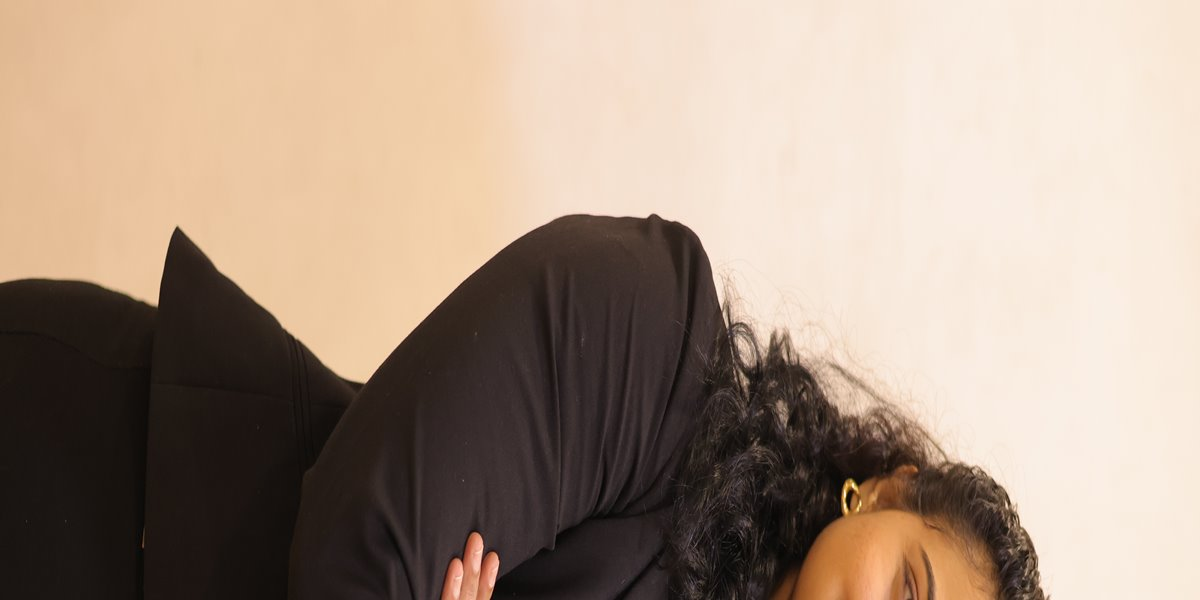
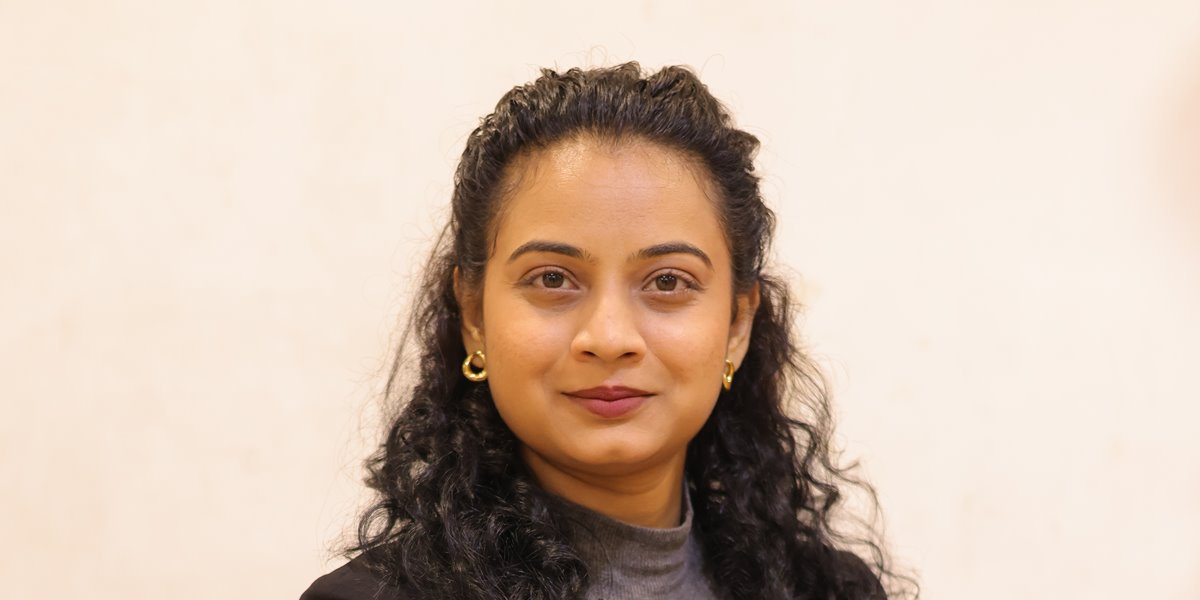
Fix founder photo rotation; story photos fill a 16:9 frame

diff --git a/src/components/StoryList.tsx b/src/components/StoryList.tsx
@@ -88,15 +88,15 @@ export default function StoryList() {
             aria-label={`${idx + 1} of ${stories.length}`}
           >
             <article className="mx-auto flex w-full max-w-[350px] flex-col gap-4 overflow-hidden rounded-[24px] border border-[#eae2cf] bg-white p-5 shadow-[0px_8px_24px_0px_rgba(61,50,38,0.06)] md:max-w-md">
-              <div className="flex h-[200px] w-full shrink-0 items-center justify-center overflow-hidden rounded-[16px] bg-[#f2ede3]">
+              <div className="flex aspect-video w-full shrink-0 items-center justify-center overflow-hidden rounded-[16px] bg-[#f2ede3]">
                 {story.image ? (
                   <img
                     src={`/images/${story.image}`}
                     alt={story.location ? `${story.author}, ${story.location}` : story.author}
-                    width={120}
-                    height={152}
+                    width={800}
+                    height={450}
                     loading={idx === 0 ? "eager" : "lazy"}
-                    className="h-[152px] w-[120px] rounded-[50%] object-cover shadow-[0px_4px_12px_rgba(61,50,38,0.12)]"
+                    className="size-full object-cover"
                   />
                 ) : (
                   <div
